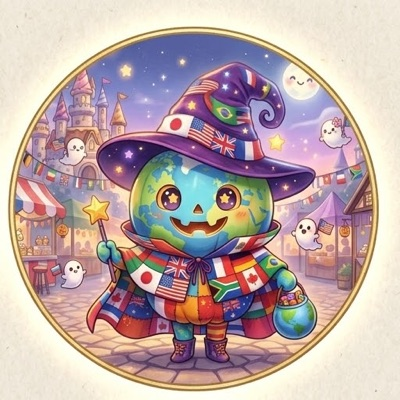
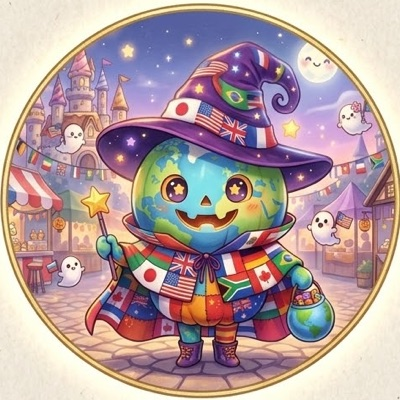
スタンプまわりの見た目を調整し、画面のノイズを削減
イラストが主役になるよう、周辺の装飾を減らして整理した。

## スタンプ
- 白フチを 4px → 2px に細くし、絵柄の直径を 92px → 101px に拡大
- スタンプの色を使ったにじむ影をやめ、台紙に押された印影らしい
  質感（接地する薄い影＋縁のわずかな陰影）に変更。
  光沢のある立体表現はボタンやシールに見えるため採用しない
- 国際・福祉・文化アートの絵柄で、画像内の円が中央からずれており
  丸く切り抜くと偏って見えていた。円の中心を検出して切り直した
  （それぞれ最大10px程度のずれ）

## 画面
- ヘッダーとスタンプシートの見出しから絵文字を削除
- スタンプの説明画面から、絵柄と重複していた左上のアイコンと、
  テーマ・解説文を削除
- コンプリートのお祝い画面のスタンプを 64px → 96px に拡大
- コンプリート時のメッセージを2行に分割

## 不具合修正
- お祝い画面へ遷移した直後、降り始めるまでのお菓子が画面上端に
  溜まって見えていた（待機中の状態指定が漏れていた）

diff --git a/src/app/stamp/page.tsx b/src/app/stamp/page.tsx
@@ -124,12 +124,9 @@ function StampContent() {
                 {/* ふわふわ動かしてタップを誘う。2つの動きをずらして交互に見せる */}
                 <StampFace
                   design={design}
-                  className="w-28 h-28 border-4 border-white shadow-lg animate-soft-float"
+                  className="w-28 h-28 border-2 border-white animate-soft-float"
                   emojiClassName="text-6xl"
-                  style={{
-                    boxShadow: `0 10px 18px -4px ${design.color}80`,
-                    animationDelay: design.id === "b" ? "1.2s" : "0s",
-                  }}
+                  style={{ animationDelay: design.id === "b" ? "1.2s" : "0s" }}
                 />
                 <span className="text-sm font-medium">
                   {locale === "en" ? design.nameEn : design.name}
@@ -152,11 +149,10 @@ function StampContent() {
             <div className="relative">
               <StampFace
                 design={design}
-                className={`w-28 h-28 border-4 border-white shadow-lg ${
+                className={`w-28 h-28 border-2 border-white ${
                   result === "success" ? "animate-stamp-press" : ""
                 }`}
                 emojiClassName="text-6xl"
-                style={{ boxShadow: `0 10px 20px -4px ${design.color}80` }}
               />
               {result === "success" &&
                 SPARKLES.map((s, i) => (

diff --git a/src/app/globals.css b/src/app/globals.css
@@ -29,6 +29,27 @@ body {
   color: var(--color-foreground);
 }
 
+/* --- スタンプの質感 -------------------------------------------------- */
+
+/*
+ * 台紙に「押された」印影に見せる。
+ * 浮き上がる影や光沢をつけるとボタンやシールに見えてしまうので、
+ * 影は紙に接している程度に抑え、縁がわずかに沈み込んだ表現にする。
+ */
+.stamp-3d {
+  box-shadow:
+    0 1px 1px rgba(42, 26, 53, 0.12),
+    0 2px 5px -1px rgba(42, 26, 53, 0.16);
+}
+
+/* 絵柄の上に重ねる、ごく薄い縁の陰影。押し込まれた質感を出す */
+.stamp-impression {
+  box-shadow:
+    inset 0 0 0 1px rgba(42, 26, 53, 0.1),
+    inset 0 2px 5px rgba(42, 26, 53, 0.18),
+    inset 0 -1px 2px rgba(255, 255, 255, 0.22);
+}
+
 /* --- 子ども向けの動き ------------------------------------------------ */
 
 /* スタンプ帳に並ぶスタンプ。--tilt の傾きを保ったままポンと現れる */
@@ -164,8 +185,9 @@ body {
   }
 }
 
+/* backwards が無いと、降り始めるまでの待機中に画面上端へ溜まって見えてしまう */
 .animate-candy-fall {
-  animation: candy-fall var(--dur, 3.4s) linear infinite;
+  animation: candy-fall var(--dur, 3.4s) linear infinite backwards;
 }
 
 /* コンプリート画面: 大きな見出しがドンと出る */

diff --git a/src/components/StampGrid.tsx b/src/components/StampGrid.tsx
@@ -26,8 +26,8 @@ export function StampGrid({ onSelectStreet }: StampGridProps) {
       {/* 枠(4px)と余白の合計が広すぎると3列に収まらなくなるので p-3 にしている */}
       <div className="bg-gradient-to-b from-white to-[#fff7ec] rounded-[2rem] border-4 border-primary/15 shadow-lg p-3">
         <div className="text-center pb-3 mb-5 border-b-2 border-dashed border-primary/20">
-          <p className="text-base font-bold text-primary">
-            🎃 {t.home.sheetTitle} 🦇
+          <p className="text-sm font-bold text-primary tracking-widest">
+            {t.home.sheetTitle}
           </p>
         </div>
 
@@ -55,7 +55,8 @@ export function StampGrid({ onSelectStreet }: StampGridProps) {
             <p className="text-lg font-bold text-primary">
               {t.progress.complete}
             </p>
-            <p className="text-sm text-muted mt-1">
+            {/* 文中の改行をそのまま反映する */}
+            <p className="text-sm text-muted mt-1 whitespace-pre-line">
               {t.progress.completeMessage}
             </p>
             <p className="text-xs text-primary/70 font-bold mt-2">

diff --git a/src/i18n/ja.ts b/src/i18n/ja.ts
@@ -9,14 +9,14 @@ export const ja: TranslationDict = {
   },
   home: {
     title: "GRID KYOTO",
-    subtitle: "🎃 京都まちの文化祭 〜5つのストリートを巡ろう〜",
+    subtitle: "京都まちの文化祭 〜5つのストリートを巡ろう〜",
     sheetTitle: "スタンプシート",
   },
   progress: {
     label: "スタンプ",
     complete: "Trick or Treat！",
     completeMessage:
-      "5つのストリートをすべて巡りました！ハッピーハロウィン！",
+      "5つのストリートをすべて巡りました！\nハッピーハロウィン！",
   },
   celebrate: {
     message: "5つのストリートを ぜんぶまわったね！",
@@ -25,7 +25,6 @@ export const ja: TranslationDict = {
     replay: "もういちど見る",
   },
   streets: {
-    themeLabel: "テーマ",
     acquired: "スタンプ獲得済み",
     notAcquired: "未獲得",
     acquiredDesc: "このストリートのスタンプは獲得済みです",

diff --git a/src/components/StreetDetailModal.tsx b/src/components/StreetDetailModal.tsx
@@ -31,22 +31,7 @@ export function StreetDetailModal({
         className="bg-card w-full max-w-lg rounded-t-2xl sm:rounded-2xl p-6 space-y-4"
         onClick={(e) => e.stopPropagation()}
       >
-        <div className="flex items-center gap-4">
-          <div
-            className="w-14 h-14 rounded-full flex items-center justify-center text-2xl text-white shrink-0"
-            style={{ backgroundColor: street.color }}
-          >
-            {street.emoji}
-          </div>
-          <div>
-            <h2 className="text-lg font-bold">{text.name}</h2>
-            <p className="text-sm text-muted">
-              {t.streets.themeLabel}: {text.theme}
-            </p>
-          </div>
-        </div>
-
-        <p className="text-sm leading-relaxed">{text.description}</p>
+        <h2 className="text-lg font-bold text-center">{text.name}</h2>
 
         {acquired ? (
           <div className="rounded-xl p-4 bg-green-50 border border-green-200 space-y-3">

diff --git a/src/i18n/en.ts b/src/i18n/en.ts
@@ -10,14 +10,14 @@ export const en: TranslationDict = {
   },
   home: {
     title: "GRID KYOTO",
-    subtitle: "🎃 Kyoto's city culture festival — explore the five streets",
+    subtitle: "Kyoto's city culture festival — explore the five streets",
     sheetTitle: "STAMP SHEET",
   },
   progress: {
     label: "Stamps",
     complete: "Trick or Treat!",
     completeMessage:
-      "You've visited all five streets. Happy Halloween!",
+      "You've visited all five streets.\nHappy Halloween!",
   },
   celebrate: {
     message: "You visited all five streets!",
@@ -26,7 +26,6 @@ export const en: TranslationDict = {
     replay: "Watch again",
   },
   streets: {
-    themeLabel: "Theme",
     acquired: "Stamp collected",
     notAcquired: "Not collected",
     acquiredDesc: "You've already collected this street's stamp",

diff --git a/src/components/StampFace.tsx b/src/components/StampFace.tsx
@@ -29,7 +29,7 @@ export function StampFace({
 }: StampFaceProps) {
   return (
     <div
-      className={`relative rounded-full overflow-hidden flex items-center justify-center ${className}`}
+      className={`relative rounded-full overflow-hidden flex items-center justify-center stamp-3d ${className}`}
       style={{ backgroundColor: design.color, ...style }}
     >
       {design.image ? (
@@ -43,6 +43,11 @@ export function StampFace({
       ) : (
         <span className={emojiClassName}>{design.emoji}</span>
       )}
+      {/* 縁の陰影を重ねて、押された印影らしく見せる */}
+      <span
+        aria-hidden
+        className="absolute inset-0 rounded-full stamp-impression pointer-events-none"
+      />
     </div>
   );
 }

diff --git a/src/components/StampSlot.tsx b/src/components/StampSlot.tsx
@@ -39,11 +39,10 @@ export function StampSlot({
         <StampFace
           design={design}
           // 傾きは CSS 変数で渡し、ポンと現れるアニメーションの終点にも使う
-          className="w-24 h-24 border-4 border-white shadow-lg stamp-tilt animate-stamp-pop"
+          className="w-24 h-24 border-2 border-white stamp-tilt animate-stamp-pop"
           emojiClassName="text-5xl"
           style={
             {
-              boxShadow: `0 6px 16px -3px ${design.color}80`,
               "--tilt": `${TILT[index % TILT.length]}deg`,
               animationDelay: `${index * 90}ms`,
             } as CSSProperties

diff --git a/src/components/CompleteCelebration.tsx b/src/components/CompleteCelebration.tsx
@@ -87,10 +87,10 @@ export function CompleteCelebration({ onClose }: CompleteCelebrationProps) {
               >
                 <StampFace
                   design={design}
-                  className="w-16 h-16 border-4 border-white/90 shadow-lg"
-                  emojiClassName="text-3xl"
+                  className="w-24 h-24 border-2 border-white/90"
+                  emojiClassName="text-5xl"
                 />
-                <span className="text-[10px] text-white/80">
+                <span className="text-xs text-white/80">
                   {streetText(street, locale).shortName}
                 </span>
               </div>

diff --git a/src/i18n/types.ts b/src/i18n/types.ts
@@ -26,7 +26,6 @@ export interface TranslationDict {
   };
   /** スタンプ詳細（ストリート情報）で使う文言 */
   streets: {
-    themeLabel: string;
     acquired: string;
     notAcquired: string;
     acquiredDesc: string;
